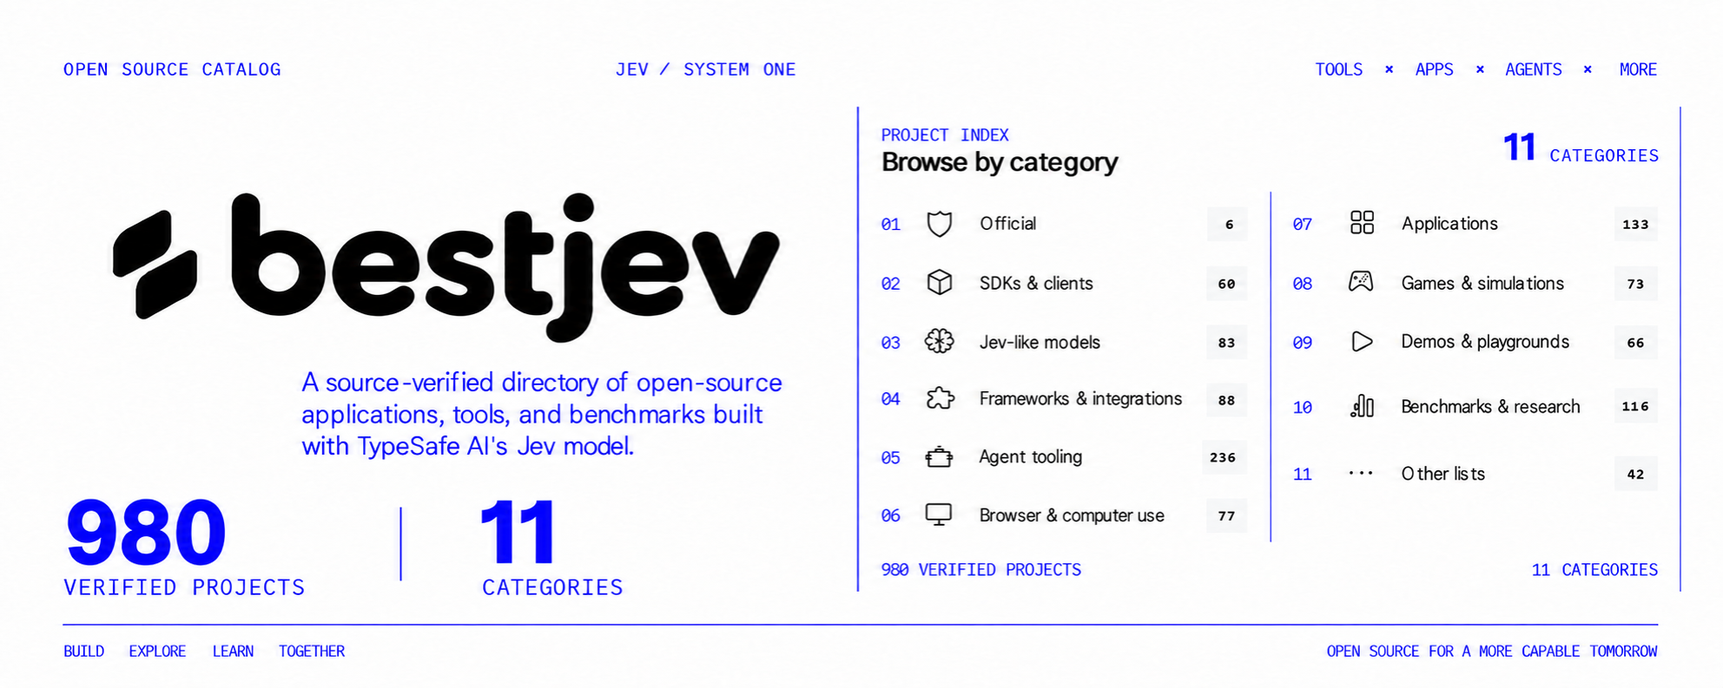
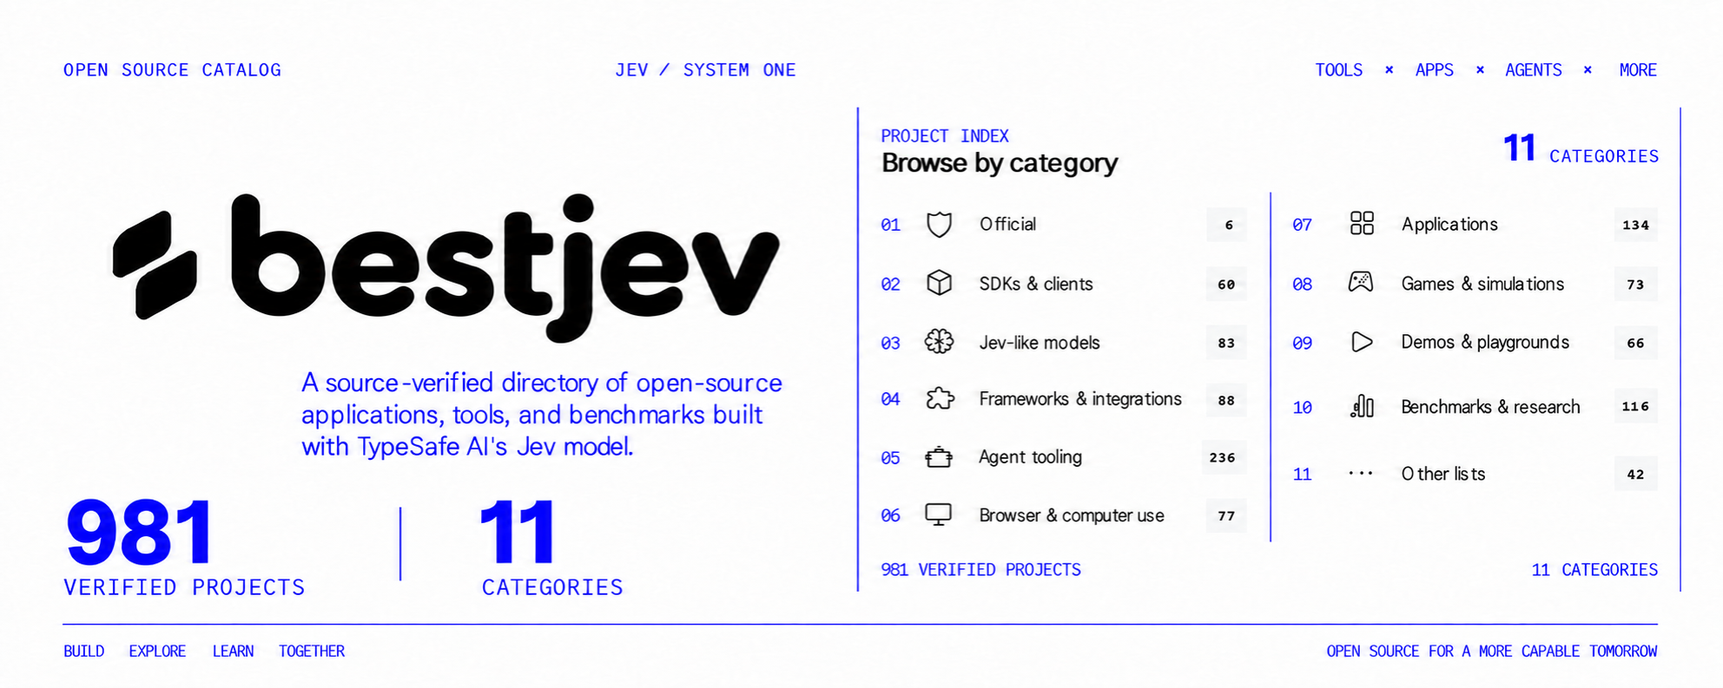
chore: include jev-seo with explicit license disclosure

diff --git a/README.ja.md b/README.ja.md
@@ -1,9 +1,9 @@
 <p align="center">
-  <a href="https://jevbest.com"><img src="public/readme/awesome-jev-hero.png" alt="Awesome Jev — 980 verified open-source projects across 11 categories" width="100%"></a>
+  <a href="https://jevbest.com"><img src="public/readme/awesome-jev-hero.png" alt="Awesome Jev — 981 verified open-source projects across 11 categories" width="100%"></a>
 </p>
 
 <p align="center">
-  <img src="https://img.shields.io/badge/verified_projects-980-1e63ff?style=flat-square" alt="980 verified projects">
+  <img src="https://img.shields.io/badge/verified_projects-981-1e63ff?style=flat-square" alt="981 verified projects">
   <img src="https://img.shields.io/badge/categories-11-111111?style=flat-square" alt="11 categories">
   <img src="https://img.shields.io/badge/languages-29-676767?style=flat-square" alt="29 languages">
   <a href="LICENSE"><img src="https://img.shields.io/badge/license-MIT-1e63ff?style=flat-square" alt="License: MIT"></a>
@@ -25,7 +25,7 @@
 
 ## Awesome Jevについて
 
-Awesome Jevは独立したコミュニティ維持されたカタログです **980 オープンソースプロジェクト** 組み込み [ジェヴ](https://typesafe.ai/)、タイプ安全AIのシステム ソフトウェア内部の決定を一式化するためのモデル。 TypeSafe AIに所属、または支持されることはありません。
+Awesome Jevは独立したコミュニティ維持されたカタログです **981 オープンソースプロジェクト** 組み込み [ジェヴ](https://typesafe.ai/)、タイプ安全AIのシステム ソフトウェア内部の決定を一式化するためのモデル。 TypeSafe AIに所属、または支持されることはありません。
 
 > **このカタログは役に立ちますか?**
 >
@@ -39,25 +39,25 @@ Awesome Jevは独立したコミュニティ維持されたカタログです **
 - 🧩 [フレームワークと統合](#フレームワークと統合-88) — **88**
 - 🤖 [エージェントツーリング](#エージェントツーリング-236) — **236**
 - 🖥 [ブラウザとコンピュータの使用](#ブラウザとコンピュータの使用-77) — **77**
-- 🪟 [アプリケーション](#アプリケーション-133) — **133**
+- 🪟 [アプリケーション](#アプリケーション-134) — **134**
 - 🎮 [ゲームとシミュレーション](#ゲームシミュレーション-73) — **73**
 - 🧪 [デモとプレイグラウンド](#デモ遊び場-66) — **66**
 - 📊 [ベンチマーク & 研究](#ベンチマーク-研究-116) — **116**
 - 📚 [その他のリスト](#その他のリスト-42) — **42**
 
-このREADMEは日付スナップショットです **980 独自の公開 GitHub リポジトリ**お問い合わせ 星が撮影されました **2026年9月18日～10月4日** 発見のため、ランキングではなく、現在の行動、活動、ライセンスアップストリームを検証します。
+このREADMEは日付スナップショットです **981 独自の公開 GitHub リポジトリ**お問い合わせ 星が撮影されました **2026年9月18日～10月4日** 発見のため、ランキングではなく、現在の行動、活動、ライセンスアップストリームを検証します。
 
 ## 今日追加
 
 <details open>
-<summary><strong>2026年10月4日に追加された18件</strong></summary>
+<summary><strong>2026年10月4日に追加された19件</strong></summary>
 
 - **SDK & クライアント (1):** [jev (stefafafan)](https://github.com/stefafafan/jev)
 - **Jev-likeモデル (3):** [gutsy](https://github.com/kouhxp/gutsy), [Vev](https://github.com/Xiaooolong/vev), [WaterSheep](https://github.com/SamratDuttaOfficial/WaterSheep)
 - **フレームワークと統合 (6):** [JEV Sees](https://github.com/CharlesFeng0314/JEV_sees), [jev4pg](https://github.com/Sheltercosmo/jev4pg), [laya-php](https://github.com/marcreichel/laya-php), [Gut Check](https://github.com/funkadelic/ha-gutcheck), [Cribrix](https://github.com/david96182/cribrix), [JEV Book Tags](https://github.com/iamjonatha/jev-book-tags)
 - **エージェントツーリング (4):** [deepseek-harness-jev](https://github.com/luobosibing2/dsh-jev-plugin), [jev-permission-gate](https://github.com/madisonrickert/jev-permission-gate), [Jev Decision Gate](https://github.com/f-tiger/jev-decision-gate), [Immune](https://github.com/schwarzschlyle/immune)
 - **ブラウザとコンピュータの使用 (1):** [Sedum](https://github.com/sedum-dev/sedum)
-- **アプリケーション (2):** [Jev LinkedIn Saved Classifier](https://github.com/kraayenjon/jev-linkedin-saved-classifier), [JevSpan](https://github.com/lzq-0529/jev-span)
+- **アプリケーション (3):** [Jev LinkedIn Saved Classifier](https://github.com/kraayenjon/jev-linkedin-saved-classifier), [JevSpan](https://github.com/lzq-0529/jev-span), [jev-seo](https://github.com/DeployMates/jev-seo)
 - **その他のリスト (1):** [awesome-jev-prompts](https://github.com/vicfei/awesome-jev-prompts)
 
 </details>
@@ -644,7 +644,7 @@ Awesome Jevは独立したコミュニティ維持されたカタログです **
 | [sloppy-jevs-extension](https://github.com/neddes/sloppy-jevs-extension) | ★ 0 | JavaScript | 2026-09-19 | オープンソースのChrome拡張機能により、AIが生成したプロースと広告をJevでフィルタリングします。 |
 | [sift](https://github.com/tylergibbs1/sift) | ★ 0 | TypeScript | 2026-09-19 | 再ランクするChrome拡張 TypeSafe Jev で Google 結果を取得し、販売ページと SEO フィラーを折ります。 |
 
-### アプリケーション (133)
+### アプリケーション (134)
 
 | プロジェクト | Stars | 言語 | 収録日 | 説明 |
 |---|---:|---|---|---|
@@ -781,6 +781,7 @@ Awesome Jevは独立したコミュニティ維持されたカタログです **
 | [jev-the-janitor](https://github.com/kylehovance-ai/jev-the-janitor) | ★ 0 | Python | 2026-09-22 | TypeSafe を利用した Markdown Vault の管理者 Jev: Jev が各メモに投票し、コードがそれをファイルし、あなたが信頼性の低い山をレビューします。 |
 | [discoprint](https://github.com/lirantal/discoprint) | ★ 0 | JavaScript | 2026-09-22 | Jev (TypeSafe AI) を使用してアーティストのディスコグラフィーをテーマ、雰囲気、歌詞の複雑さによって分類し、カラフルなターミナル ダッシュボードとして表示します |
 | [1 Million Emojis](https://github.com/cwdx/1-million-emojis) | ★ 0 | TypeScript | 2026-09-30 | 共有 emoji キャンバスで、Jev が次に描く emoji とマスを選び、訪問者のストロークを完成させるか判断する。 |
+| [jev-seo](https://github.com/DeployMates/jev-seo) | ★ 0 | TypeScript | 2026-10-04 | Jev の型付き質問でページの意図、品質、引用適性を判定するサイト監査ツール。ソースは公開されているが UNLICENSED で、全権利を留保。 |
 
 ### ゲーム&シミュレーション (73)
 

diff --git a/README.es.md b/README.es.md
@@ -1,9 +1,9 @@
 <p align="center">
-  <a href="https://jevbest.com"><img src="public/readme/awesome-jev-hero.png" alt="Awesome Jev — 980 verified open-source projects across 11 categories" width="100%"></a>
+  <a href="https://jevbest.com"><img src="public/readme/awesome-jev-hero.png" alt="Awesome Jev — 981 verified open-source projects across 11 categories" width="100%"></a>
 </p>
 
 <p align="center">
-  <img src="https://img.shields.io/badge/verified_projects-980-1e63ff?style=flat-square" alt="980 verified projects">
+  <img src="https://img.shields.io/badge/verified_projects-981-1e63ff?style=flat-square" alt="981 verified projects">
   <img src="https://img.shields.io/badge/categories-11-111111?style=flat-square" alt="11 categories">
   <img src="https://img.shields.io/badge/languages-29-676767?style=flat-square" alt="29 languages">
   <a href="LICENSE"><img src="https://img.shields.io/badge/license-MIT-1e63ff?style=flat-square" alt="License: MIT"></a>
@@ -25,7 +25,7 @@
 
 ## Acerca de Awesome Jev
 
-Impresionante Jev es un catálogo independiente, mantenido por la comunidad **980 proyectos de código abierto** construido con [Jev](https://typesafe.ai/), sistema de tipoSafe AI Un modelo para decisiones tipo dentro del software. No está afiliada o respaldada por TypeSafe AI.
+Impresionante Jev es un catálogo independiente, mantenido por la comunidad **981 proyectos de código abierto** construido con [Jev](https://typesafe.ai/), sistema de tipoSafe AI Un modelo para decisiones tipo dentro del software. No está afiliada o respaldada por TypeSafe AI.
 
 > **¿Qué hace útil este catálogo?**
 >
@@ -39,25 +39,25 @@ Impresionante Jev es un catálogo independiente, mantenido por la comunidad **98
 - 🧩 [Marcos e integraciones](#marcos-e-integraciones-88) — **88**
 - 🤖 [Agente herramienta](#agente-herramienta-236) — **236**
 - 🖥 [Uso del navegador](#uso-del-navegador-77) — **77**
-- 🪟 [Aplicaciones](#aplicaciones-133) — **133**
+- 🪟 [Aplicaciones](#aplicaciones-134) — **134**
 - 🎮 [Juegos y simulaciones](#juegos-simulaciones-73) — **73**
 - 🧪 [Demos y entornos de prueba](#demos-parques-infantiles-66) — **66**
 - 📊 [Criterios de investigación](#criterios-de-investigación-116) — **116**
 - 📚 [Otras listas](#otras-listas-42) — **42**
 
-Este README es una instantánea fechada **980 repositorios públicos únicos GitHub**. Las estrellas fueron capturadas **2026-09-18–2026-10-04** para el descubrimiento, no clasificación; verificar el comportamiento actual, la actividad y la concesión de licencias aguas arriba.
+Este README es una instantánea fechada **981 repositorios públicos únicos GitHub**. Las estrellas fueron capturadas **2026-09-18–2026-10-04** para el descubrimiento, no clasificación; verificar el comportamiento actual, la actividad y la concesión de licencias aguas arriba.
 
 ## Hoy
 
 <details open>
-<summary><strong>18 proyectos añadidos el 4 de octubre de 2026</strong></summary>
+<summary><strong>19 proyectos añadidos el 4 de octubre de 2026</strong></summary>
 
 - **SDKs &amp; clientes (1):** [jev (stefafafan)](https://github.com/stefafafan/jev)
 - **Modelos Jev-like (3):** [gutsy](https://github.com/kouhxp/gutsy), [Vev](https://github.com/Xiaooolong/vev), [WaterSheep](https://github.com/SamratDuttaOfficial/WaterSheep)
 - **Marcos e integraciones (6):** [JEV Sees](https://github.com/CharlesFeng0314/JEV_sees), [jev4pg](https://github.com/Sheltercosmo/jev4pg), [laya-php](https://github.com/marcreichel/laya-php), [Gut Check](https://github.com/funkadelic/ha-gutcheck), [Cribrix](https://github.com/david96182/cribrix), [JEV Book Tags](https://github.com/iamjonatha/jev-book-tags)
 - **Agente herramienta (4):** [deepseek-harness-jev](https://github.com/luobosibing2/dsh-jev-plugin), [jev-permission-gate](https://github.com/madisonrickert/jev-permission-gate), [Jev Decision Gate](https://github.com/f-tiger/jev-decision-gate), [Immune](https://github.com/schwarzschlyle/immune)
 - **Uso del navegador (1):** [Sedum](https://github.com/sedum-dev/sedum)
-- **Aplicaciones (2):** [Jev LinkedIn Saved Classifier](https://github.com/kraayenjon/jev-linkedin-saved-classifier), [JevSpan](https://github.com/lzq-0529/jev-span)
+- **Aplicaciones (3):** [Jev LinkedIn Saved Classifier](https://github.com/kraayenjon/jev-linkedin-saved-classifier), [JevSpan](https://github.com/lzq-0529/jev-span), [jev-seo](https://github.com/DeployMates/jev-seo)
 - **Otras listas (1):** [awesome-jev-prompts](https://github.com/vicfei/awesome-jev-prompts)
 
 </details>
@@ -644,7 +644,7 @@ Este README es una instantánea fechada **980 repositorios públicos únicos Git
 | [sloppy-jevs-extension](https://github.com/neddes/sloppy-jevs-extension) | ★ 0 | JavaScript | 2026-09-19 | Extensión Chrome de código abierto que filtra la prosa generada por AI y anuncios con Jev. |
 | [sift](https://github.com/tylergibbs1/sift) | ★ 0 | TypeScript | 2026-09-19 | Ampliación de Chrome que re-ranks Google resultados con TipoSafe Jev y dobla las páginas de ventas y relleno SEO. |
 
-### Aplicaciones (133)
+### Aplicaciones (134)
 
 | Proyecto | Stars | Lenguaje | Añadido | Descripción |
 |---|---:|---|---|---|
@@ -781,6 +781,7 @@ Este README es una instantánea fechada **980 repositorios públicos únicos Git
 | [jev-the-janitor](https://github.com/kylehovance-ai/jev-the-janitor) | ★ 0 | Python | 2026-09-22 | Un conserje para bóvedas de rebajas con tecnología de TypeSafe Jev: Jev vota en cada nota, su código la archiva y usted revisa la pila de baja confianza. |
 | [discoprint](https://github.com/lirantal/discoprint) | ★ 0 | JavaScript | 2026-09-22 | Clasifique la discografía de un artista por tema, estado de ánimo y complejidad lírica con Jev (TypeSafe AI) y visualícela como un panel de terminal colorido. |
 | [1 Million Emojis](https://github.com/cwdx/1-million-emojis) | ★ 0 | TypeScript | 2026-09-30 | Lienzo compartido de emojis donde Jev elige qué emoji y casilla pintar después y decide si completar el trazo del visitante. |
+| [jev-seo](https://github.com/DeployMates/jev-seo) | ★ 0 | TypeScript | 2026-10-04 | Herramienta de auditoría web donde Jev evalúa intención, calidad y citabilidad mediante preguntas tipadas; código público pero UNLICENSED, con todos los derechos reservados. |
 
 ### Juegos &quot; simulaciones (73)
 

diff --git a/README.pt-BR.md b/README.pt-BR.md
@@ -1,9 +1,9 @@
 <p align="center">
-  <a href="https://jevbest.com"><img src="public/readme/awesome-jev-hero.png" alt="Awesome Jev — 980 verified open-source projects across 11 categories" width="100%"></a>
+  <a href="https://jevbest.com"><img src="public/readme/awesome-jev-hero.png" alt="Awesome Jev — 981 verified open-source projects across 11 categories" width="100%"></a>
 </p>
 
 <p align="center">
-  <img src="https://img.shields.io/badge/verified_projects-980-1e63ff?style=flat-square" alt="980 verified projects">
+  <img src="https://img.shields.io/badge/verified_projects-981-1e63ff?style=flat-square" alt="981 verified projects">
   <img src="https://img.shields.io/badge/categories-11-111111?style=flat-square" alt="11 categories">
   <img src="https://img.shields.io/badge/languages-29-676767?style=flat-square" alt="29 languages">
   <a href="LICENSE"><img src="https://img.shields.io/badge/license-MIT-1e63ff?style=flat-square" alt="License: MIT"></a>
@@ -25,7 +25,7 @@
 
 ## Sobre Jev impressionante
 
-Awesome Jev é um catálogo independente, mantido pela comunidade de **980 projectos de código aberto** construído com [Jev](https://typesafe.ai/), Sistema de IA TipoSafe Um modelo para decisões digitadas dentro do software. Não é afiliado ou endossado pelo TypeSafe IA.
+Awesome Jev é um catálogo independente, mantido pela comunidade de **981 projectos de código aberto** construído com [Jev](https://typesafe.ai/), Sistema de IA TipoSafe Um modelo para decisões digitadas dentro do software. Não é afiliado ou endossado pelo TypeSafe IA.
 
 > **O que torna este catálogo útil?**
 >
@@ -39,25 +39,25 @@ Awesome Jev é um catálogo independente, mantido pela comunidade de **980 proje
 - 🧩 [Quadros e integrações](#quadros-e-integrações-88) — **88**
 - 🤖 [Ferramentas de agente](#ferramentas-de-agente-236) — **236**
 - 🖥 [Navegador & uso do computador](#navegador-uso-do-computador-77) — **77**
-- 🪟 [Aplicações](#aplicações-133) — **133**
+- 🪟 [Aplicações](#aplicações-134) — **134**
 - 🎮 [Jogos e simulações](#jogos-e-simulações-73) — **73**
 - 🧪 [Demos e ambientes de teste](#demos-playgrounds-66) — **66**
 - 📊 [Benchmarks & pesquisa](#benchmarks-pesquisa-116) — **116**
 - 📚 [Outras listas](#outras-listas-42) — **42**
 
-Este README é um instantâneo datado de **980 repositórios públicos únicos do GitHub**. As estrelas foram capturadas em **2026-09-18–2026-10-04** para descoberta, não classificação; verificar comportamento atual, atividade e licenciamento a montante.
+Este README é um instantâneo datado de **981 repositórios públicos únicos do GitHub**. As estrelas foram capturadas em **2026-09-18–2026-10-04** para descoberta, não classificação; verificar comportamento atual, atividade e licenciamento a montante.
 
 ## Adicionado hoje
 
 <details open>
-<summary><strong>18 projetos adicionados em 4 de outubro de 2026</strong></summary>
+<summary><strong>19 projetos adicionados em 4 de outubro de 2026</strong></summary>
 
 - **SDKs & clientes (1):** [jev (stefafafan)](https://github.com/stefafafan/jev)
 - **Modelos Jev-like (3):** [gutsy](https://github.com/kouhxp/gutsy), [Vev](https://github.com/Xiaooolong/vev), [WaterSheep](https://github.com/SamratDuttaOfficial/WaterSheep)
 - **Quadros e integrações (6):** [JEV Sees](https://github.com/CharlesFeng0314/JEV_sees), [jev4pg](https://github.com/Sheltercosmo/jev4pg), [laya-php](https://github.com/marcreichel/laya-php), [Gut Check](https://github.com/funkadelic/ha-gutcheck), [Cribrix](https://github.com/david96182/cribrix), [JEV Book Tags](https://github.com/iamjonatha/jev-book-tags)
 - **Ferramentas de agente (4):** [deepseek-harness-jev](https://github.com/luobosibing2/dsh-jev-plugin), [jev-permission-gate](https://github.com/madisonrickert/jev-permission-gate), [Jev Decision Gate](https://github.com/f-tiger/jev-decision-gate), [Immune](https://github.com/schwarzschlyle/immune)
 - **Navegador & uso do computador (1):** [Sedum](https://github.com/sedum-dev/sedum)
-- **Aplicações (2):** [Jev LinkedIn Saved Classifier](https://github.com/kraayenjon/jev-linkedin-saved-classifier), [JevSpan](https://github.com/lzq-0529/jev-span)
+- **Aplicações (3):** [Jev LinkedIn Saved Classifier](https://github.com/kraayenjon/jev-linkedin-saved-classifier), [JevSpan](https://github.com/lzq-0529/jev-span), [jev-seo](https://github.com/DeployMates/jev-seo)
 - **Outras listas (1):** [awesome-jev-prompts](https://github.com/vicfei/awesome-jev-prompts)
 
 </details>
@@ -644,7 +644,7 @@ Este README é um instantâneo datado de **980 repositórios públicos únicos d
 | [sloppy-jevs-extension](https://github.com/neddes/sloppy-jevs-extension) | ★ 0 | JavaScript | 2026-09-19 | Extensão Open-source Chrome que filtra prosa gerada por IA e anúncios com Jev. |
 | [sift](https://github.com/tylergibbs1/sift) | ★ 0 | TypeScript | 2026-09-19 | Extensão do Chrome que re- ranks Resultados do Google com TypeSafe Jev e dobra páginas de vendas e preenchimento SEO. |
 
-### Aplicações (133)
+### Aplicações (134)
 
 | Projeto | Stars | Linguagem | Adicionado | Descrição |
 |---|---:|---|---|---|
@@ -781,6 +781,7 @@ Este README é um instantâneo datado de **980 repositórios públicos únicos d
 | [jev-the-janitor](https://github.com/kylehovance-ai/jev-the-janitor) | ★ 0 | Python | 2026-09-22 | Um zelador para cofres de descontos com tecnologia TypeSafe Jev: Jev vota em cada nota, seu código a arquiva, você revisa a pilha de baixa confiança. |
 | [discoprint](https://github.com/lirantal/discoprint) | ★ 0 | JavaScript | 2026-09-22 | Classifique a discografia de um artista por tema, humor e complexidade lírica com Jev (TypeSafe AI) e visualize-a como um painel de terminal colorido |
 | [1 Million Emojis](https://github.com/cwdx/1-million-emojis) | ★ 0 | TypeScript | 2026-09-30 | Tela compartilhada de emojis em que Jev escolhe qual emoji e célula pintar em seguida e decide se deve completar o traço do visitante. |
+| [jev-seo](https://github.com/DeployMates/jev-seo) | ★ 0 | TypeScript | 2026-10-04 | Ferramenta de auditoria de sites em que Jev avalia intenção, qualidade e possibilidade de citação com perguntas tipadas; código público, mas UNLICENSED, com todos os direitos reservados. |
 
 ### Jogos e simulações (73)
 

diff --git a/README.ko.md b/README.ko.md
@@ -1,9 +1,9 @@
 <p align="center">
-  <a href="https://jevbest.com"><img src="public/readme/awesome-jev-hero.png" alt="Awesome Jev — 980 verified open-source projects across 11 categories" width="100%"></a>
+  <a href="https://jevbest.com"><img src="public/readme/awesome-jev-hero.png" alt="Awesome Jev — 981 verified open-source projects across 11 categories" width="100%"></a>
 </p>
 
 <p align="center">
-  <img src="https://img.shields.io/badge/verified_projects-980-1e63ff?style=flat-square" alt="980 verified projects">
+  <img src="https://img.shields.io/badge/verified_projects-981-1e63ff?style=flat-square" alt="981 verified projects">
   <img src="https://img.shields.io/badge/categories-11-111111?style=flat-square" alt="11 categories">
   <img src="https://img.shields.io/badge/languages-29-676767?style=flat-square" alt="29 languages">
   <a href="LICENSE"><img src="https://img.shields.io/badge/license-MIT-1e63ff?style=flat-square" alt="License: MIT"></a>
@@ -25,7 +25,7 @@
 
 ## 최고 Jev
 
-최고 Jev는 독립적 인 커뮤니티 기반 카탈로그입니다. **980 오픈 소스 프로젝트** 내장형 [뚱 베어](https://typesafe.ai/)TypeSafe AI 시스템 소프트웨어 내부 결정을위한 하나의 모델. TypeSafe AI에 의해 제휴 또는 승인되지 않습니다.
+최고 Jev는 독립적 인 커뮤니티 기반 카탈로그입니다. **981 오픈 소스 프로젝트** 내장형 [뚱 베어](https://typesafe.ai/)TypeSafe AI 시스템 소프트웨어 내부 결정을위한 하나의 모델. TypeSafe AI에 의해 제휴 또는 승인되지 않습니다.
 
 > **이 카탈로그는 유용합니까?**
 >
@@ -39,25 +39,25 @@
 - 🧩 [프레임워크 및 통합](#frameworks-및-통합-88) — **88**
 - 🤖 [에이전트 도구](#에이전트-툴링-236) — **236**
 - 🖥 [브라우저 및 컴퓨터 사용](#브라우저-및-컴퓨터-사용-77) — **77**
-- 🪟 [애플리케이션](#애플리케이션-133) — **133**
+- 🪟 [애플리케이션](#애플리케이션-134) — **134**
 - 🎮 [게임 및 시뮬레이션](#게임-및-시뮬레이션-73) — **73**
 - 🧪 [데모 및 플레이그라운드](#데모-및-놀이터-66) — **66**
 - 📊 [벤치마크 및 연구](#벤치-마크-연구-116) — **116**
 - 📚 [기타 목록](#기타-목록-42) — **42**
 
-이 README는 날짜 스냅 샷입니다. **980 고유의 공개 GitHub 저장소**· 별이 캡처되었습니다. **2026-09-18–2026-10-04** 발견을 위해, 순위가 아닙니다; 현재 행동, 활동 및 라이센스 업스트림을 확인합니다.
+이 README는 날짜 스냅 샷입니다. **981 고유의 공개 GitHub 저장소**· 별이 캡처되었습니다. **2026-09-18–2026-10-04** 발견을 위해, 순위가 아닙니다; 현재 행동, 활동 및 라이센스 업스트림을 확인합니다.
 
 ## 오늘 추가
 
 <details open>
-<summary><strong>2026년 10월 4일에 추가된 프로젝트 18개</strong></summary>
+<summary><strong>2026년 10월 4일에 추가된 프로젝트 19개</strong></summary>
 
 - **SDK 및 클라이언트 (1):** [jev (stefafafan)](https://github.com/stefafafan/jev)
 - **Jev-like 모델 (3):** [gutsy](https://github.com/kouhxp/gutsy), [Vev](https://github.com/Xiaooolong/vev), [WaterSheep](https://github.com/SamratDuttaOfficial/WaterSheep)
 - **Frameworks 및 통합 (6):** [JEV Sees](https://github.com/CharlesFeng0314/JEV_sees), [jev4pg](https://github.com/Sheltercosmo/jev4pg), [laya-php](https://github.com/marcreichel/laya-php), [Gut Check](https://github.com/funkadelic/ha-gutcheck), [Cribrix](https://github.com/david96182/cribrix), [JEV Book Tags](https://github.com/iamjonatha/jev-book-tags)
 - **에이전트 툴링 (4):** [deepseek-harness-jev](https://github.com/luobosibing2/dsh-jev-plugin), [jev-permission-gate](https://github.com/madisonrickert/jev-permission-gate), [Jev Decision Gate](https://github.com/f-tiger/jev-decision-gate), [Immune](https://github.com/schwarzschlyle/immune)
 - **브라우저 및 컴퓨터 사용 (1):** [Sedum](https://github.com/sedum-dev/sedum)
-- **애플리케이션 (2):** [Jev LinkedIn Saved Classifier](https://github.com/kraayenjon/jev-linkedin-saved-classifier), [JevSpan](https://github.com/lzq-0529/jev-span)
+- **애플리케이션 (3):** [Jev LinkedIn Saved Classifier](https://github.com/kraayenjon/jev-linkedin-saved-classifier), [JevSpan](https://github.com/lzq-0529/jev-span), [jev-seo](https://github.com/DeployMates/jev-seo)
 - **기타 목록 (1):** [awesome-jev-prompts](https://github.com/vicfei/awesome-jev-prompts)
 
 </details>
@@ -644,7 +644,7 @@
 | [sloppy-jevs-extension](https://github.com/neddes/sloppy-jevs-extension) | ★ 0 | JavaScript | 2026-09-19 | Open-source Chrome extension that filter AI-generated prose and ads with Jev. |
 | [sift](https://github.com/tylergibbs1/sift) | ★ 0 | TypeScript | 2026-09-19 | Chrome 확장 가능 TypeSafe Jev와 Google 결과 판매 페이지와 SEO 필러를 접습니다. |
 
-### 애플리케이션 (133)
+### 애플리케이션 (134)
 
 | 프로젝트 | Stars | 언어 | 등록일 | 설명 |
 |---|---:|---|---|---|
@@ -781,6 +781,7 @@
 | [jev-the-janitor](https://github.com/kylehovance-ai/jev-the-janitor) | ★ 0 | Python | 2026-09-22 | TypeSafe Jev가 제공하는 마크다운 저장소 관리인: Jev는 각 메모에 투표하고, 코드로 파일을 저장하고, 신뢰도가 낮은 더미를 검토합니다. |
 | [discoprint](https://github.com/lirantal/discoprint) | ★ 0 | JavaScript | 2026-09-22 | Jev(TypeSafe AI)를 사용하여 아티스트의 음반을 테마, 분위기, 서정적 복잡성별로 분류하고 다채로운 터미널 대시보드로 봅니다. |
 | [1 Million Emojis](https://github.com/cwdx/1-million-emojis) | ★ 0 | TypeScript | 2026-09-30 | 공유 이모지 캔버스에서 Jev가 다음에 그릴 이모지와 칸을 선택하고 방문자의 획을 완성할지 판단합니다. |
+| [jev-seo](https://github.com/DeployMates/jev-seo) | ★ 0 | TypeScript | 2026-10-04 | Jev의 타입 질문으로 페이지 의도, 콘텐츠 품질, 인용 적합성을 판단하는 웹사이트 감사 도구. 소스는 공개되어 있으나 UNLICENSED이며 모든 권리는 유보된다. |
 
 ### 게임 및 시뮬레이션 (73)
 

diff --git a/README.md b/README.md
@@ -1,9 +1,9 @@
 <p align="center">
-  <a href="https://jevbest.com"><img src="public/readme/awesome-jev-hero.png" alt="Awesome Jev — 980 verified open-source projects across 11 categories" width="100%"></a>
+  <a href="https://jevbest.com"><img src="public/readme/awesome-jev-hero.png" alt="Awesome Jev — 981 verified open-source projects across 11 categories" width="100%"></a>
 </p>
 
 <p align="center">
-  <img src="https://img.shields.io/badge/verified_projects-980-1e63ff?style=flat-square" alt="980 verified projects">
+  <img src="https://img.shields.io/badge/verified_projects-981-1e63ff?style=flat-square" alt="981 verified projects">
   <img src="https://img.shields.io/badge/categories-11-111111?style=flat-square" alt="11 categories">
   <img src="https://img.shields.io/badge/languages-29-676767?style=flat-square" alt="29 languages">
   <a href="LICENSE"><img src="https://img.shields.io/badge/license-MIT-1e63ff?style=flat-square" alt="License: MIT"></a>
@@ -25,7 +25,7 @@
 
 ## About Awesome Jev
 
-Awesome Jev is an independent, community-maintained catalog of **980 open-source projects** built with [Jev](https://typesafe.ai/), TypeSafe AI's System One model for typed decisions inside software. It is not affiliated with or endorsed by TypeSafe AI.
+Awesome Jev is an independent, community-maintained catalog of **981 open-source projects** built with [Jev](https://typesafe.ai/), TypeSafe AI's System One model for typed decisions inside software. It is not affiliated with or endorsed by TypeSafe AI.
 
 > **What makes this catalog useful?**
 >
@@ -39,25 +39,25 @@ Awesome Jev is an independent, community-maintained catalog of **980 open-source
 - 🧩 [Frameworks & integrations](#frameworks-integrations-88) — **88**
 - 🤖 [Agent tooling](#agent-tooling-236) — **236**
 - 🖥 [Browser & computer use](#browser-computer-use-77) — **77**
-- 🪟 [Applications](#applications-133) — **133**
+- 🪟 [Applications](#applications-134) — **134**
 - 🎮 [Games & simulations](#games-simulations-73) — **73**
 - 🧪 [Demos & playgrounds](#demos-playgrounds-66) — **66**
 - 📊 [Benchmarks & research](#benchmarks-research-116) — **116**
 - 📚 [Other lists](#other-lists-42) — **42**
 
-This README is a dated snapshot of **980 unique public GitHub repositories**. Stars were captured on **2026-09-18–2026-10-04** for discovery, not ranking; verify current behavior, activity, and licensing upstream.
+This README is a dated snapshot of **981 unique public GitHub repositories**. Stars were captured on **2026-09-18–2026-10-04** for discovery, not ranking; verify current behavior, activity, and licensing upstream.
 
 ## Added today
 
 <details open>
-<summary><strong>18 projects added on October 4, 2026</strong></summary>
+<summary><strong>19 projects added on October 4, 2026</strong></summary>
 
 - **SDKs & clients (1):** [jev (stefafafan)](https://github.com/stefafafan/jev)
 - **Jev-like models (3):** [gutsy](https://github.com/kouhxp/gutsy), [Vev](https://github.com/Xiaooolong/vev), [WaterSheep](https://github.com/SamratDuttaOfficial/WaterSheep)
 - **Frameworks & integrations (6):** [JEV Sees](https://github.com/CharlesFeng0314/JEV_sees), [jev4pg](https://github.com/Sheltercosmo/jev4pg), [laya-php](https://github.com/marcreichel/laya-php), [Gut Check](https://github.com/funkadelic/ha-gutcheck), [Cribrix](https://github.com/david96182/cribrix), [JEV Book Tags](https://github.com/iamjonatha/jev-book-tags)
 - **Agent tooling (4):** [deepseek-harness-jev](https://github.com/luobosibing2/dsh-jev-plugin), [jev-permission-gate](https://github.com/madisonrickert/jev-permission-gate), [Jev Decision Gate](https://github.com/f-tiger/jev-decision-gate), [Immune](https://github.com/schwarzschlyle/immune)
 - **Browser & computer use (1):** [Sedum](https://github.com/sedum-dev/sedum)
-- **Applications (2):** [Jev LinkedIn Saved Classifier](https://github.com/kraayenjon/jev-linkedin-saved-classifier), [JevSpan](https://github.com/lzq-0529/jev-span)
+- **Applications (3):** [Jev LinkedIn Saved Classifier](https://github.com/kraayenjon/jev-linkedin-saved-classifier), [JevSpan](https://github.com/lzq-0529/jev-span), [jev-seo](https://github.com/DeployMates/jev-seo)
 - **Other lists (1):** [awesome-jev-prompts](https://github.com/vicfei/awesome-jev-prompts)
 
 </details>
@@ -644,7 +644,7 @@ This README is a dated snapshot of **980 unique public GitHub repositories**. St
 | [sloppy-jevs-extension](https://github.com/neddes/sloppy-jevs-extension) | ★ 0 | JavaScript | 2026-09-19 | Open-source Chrome extension that filters AI-generated prose and ads with Jev. |
 | [sift](https://github.com/tylergibbs1/sift) | ★ 0 | TypeScript | 2026-09-19 | Chrome extension that re-ranks Google results with TypeSafe Jev and folds away sales pages and SEO filler. |
 
-### Applications (133)
+### Applications (134)
 
 | Project | Stars | Language | Added | Description |
 |---|---:|---|---|---|
@@ -781,6 +781,7 @@ This README is a dated snapshot of **980 unique public GitHub repositories**. St
 | [jev-the-janitor](https://github.com/kylehovance-ai/jev-the-janitor) | ★ 0 | Python | 2026-09-22 | A janitor for markdown vaults powered by TypeSafe Jev: Jev votes on each note, your code files it, you review the low-confidence pile. |
 | [discoprint](https://github.com/lirantal/discoprint) | ★ 0 | JavaScript | 2026-09-22 | Classify an artist's discography by theme, mood, and lyrical complexity with Jev (TypeSafe AI), and view it as a colorful terminal dashboard |
 | [1 Million Emojis](https://github.com/cwdx/1-million-emojis) | ★ 0 | TypeScript | 2026-09-30 | Shared emoji canvas where Jev chooses which emoji and square to paint next and judges whether to finish the visitor's stroke. |
+| [jev-seo](https://github.com/DeployMates/jev-seo) | ★ 0 | TypeScript | 2026-10-04 | Website audit tool where Jev judges page intent, content quality, and citability using typed questions; source is public but UNLICENSED, with all rights reserved. |
 
 ### Games & simulations (73)
 

diff --git a/CHANGELOG.md b/CHANGELOG.md
@@ -4,7 +4,7 @@ Daily additions to the Awesome Jev catalog. This file is generated from the veri
 
 > Do not edit this file by hand. Run `npm run sync:changelog` after updating the catalog.
 
-## 2026-10-04 — 18 projects
+## 2026-10-04 — 19 projects
 
 ### SDKs & clients (1)
 
@@ -36,10 +36,11 @@ Daily additions to the Awesome Jev catalog. This file is generated from the veri
 
 - [Sedum](https://github.com/sedum-dev/sedum) — Playwright testing tool where Jev selects actions and page elements and judges verification claims, while code executes browser operations. _TypeScript; ★ 3._
 
-### Applications (2)
+### Applications (3)
 
 - [Jev LinkedIn Saved Classifier](https://github.com/kraayenjon/jev-linkedin-saved-classifier) — Reads LinkedIn saved posts from Chrome and uses Jev Choice to assign user-defined categories, exporting a searchable board, CSV, and JSON. _Python; ★ 8._
 - [JevSpan](https://github.com/lzq-0529/jev-span) — Zero-shot named entity recognition using Jev Choice to nominate, verify, and refine candidate text spans, retaining offsets, probabilities, and decision traces. _Python; ★ 5._
+- [jev-seo](https://github.com/DeployMates/jev-seo) — Website audit tool where Jev judges page intent, content quality, and citability using typed questions; source is public but UNLICENSED, with all rights reserved. _TypeScript; ★ 0._
 
 ### Other lists (1)
 

diff --git a/maintenance/2026-10-04.md b/maintenance/2026-10-04.md
@@ -67,3 +67,10 @@ Descriptions are recorded in [CHANGELOG.md](../CHANGELOG.md#2026-10-04--18-proje
 - Cover edited with built-in imagegen, preserving layout and replacing both totals and category digits. Generated width was 1983; normalized by one pixel to preserve tracked 1984×793 dimensions. All displayed counts visually inspected.
 - Repository description updated and read back: `A verified, community-maintained catalog of 980 open-source projects built with Jev.`
 - Validation: npm run check, npm run build, and git diff --check passed. No upstream project tests or live integrations were executed.
+
+## Follow-up: Issue #65
+
+- User explicitly approved jev-seo as an exception to the license hold. Added to Applications in all six locales with an explicit UNLICENSED / all rights reserved disclosure. Public source must not be interpreted as an open-source license.
+- Verified `server/src/jevClient.ts`, `questions.ts`, and `thresholds.ts` at upstream commit `57777c5d0c566a350e184d125936d38065bb5c80`. Metadata: 0 stars, TypeScript, no license. No live inference or upstream benchmark executed.
+- Catalog total: 981; Applications: 134; today: 19. Earlier totals and dispositions above describe the initial collection pass.
+- Issues #73 and #76 require a public GitHub repository with an open-source license and inspectable Jev implementation before review can proceed.
